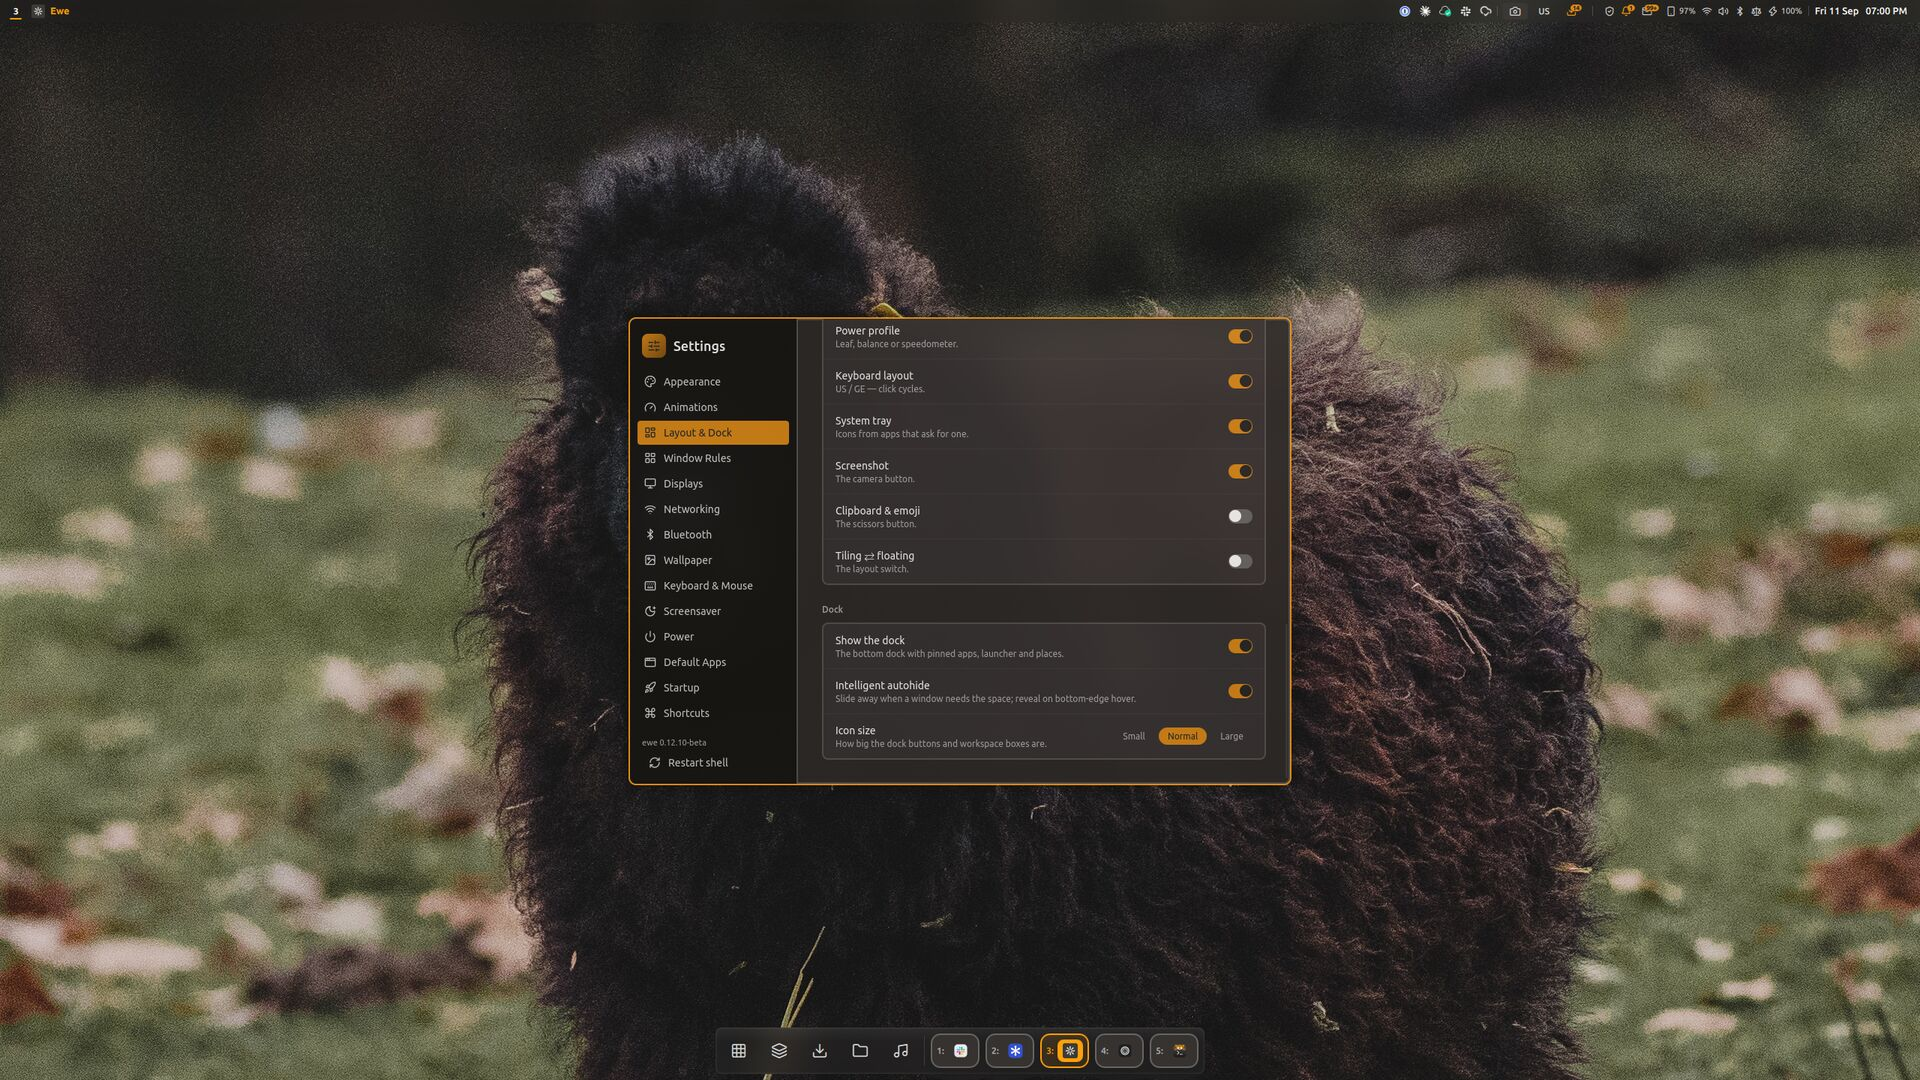
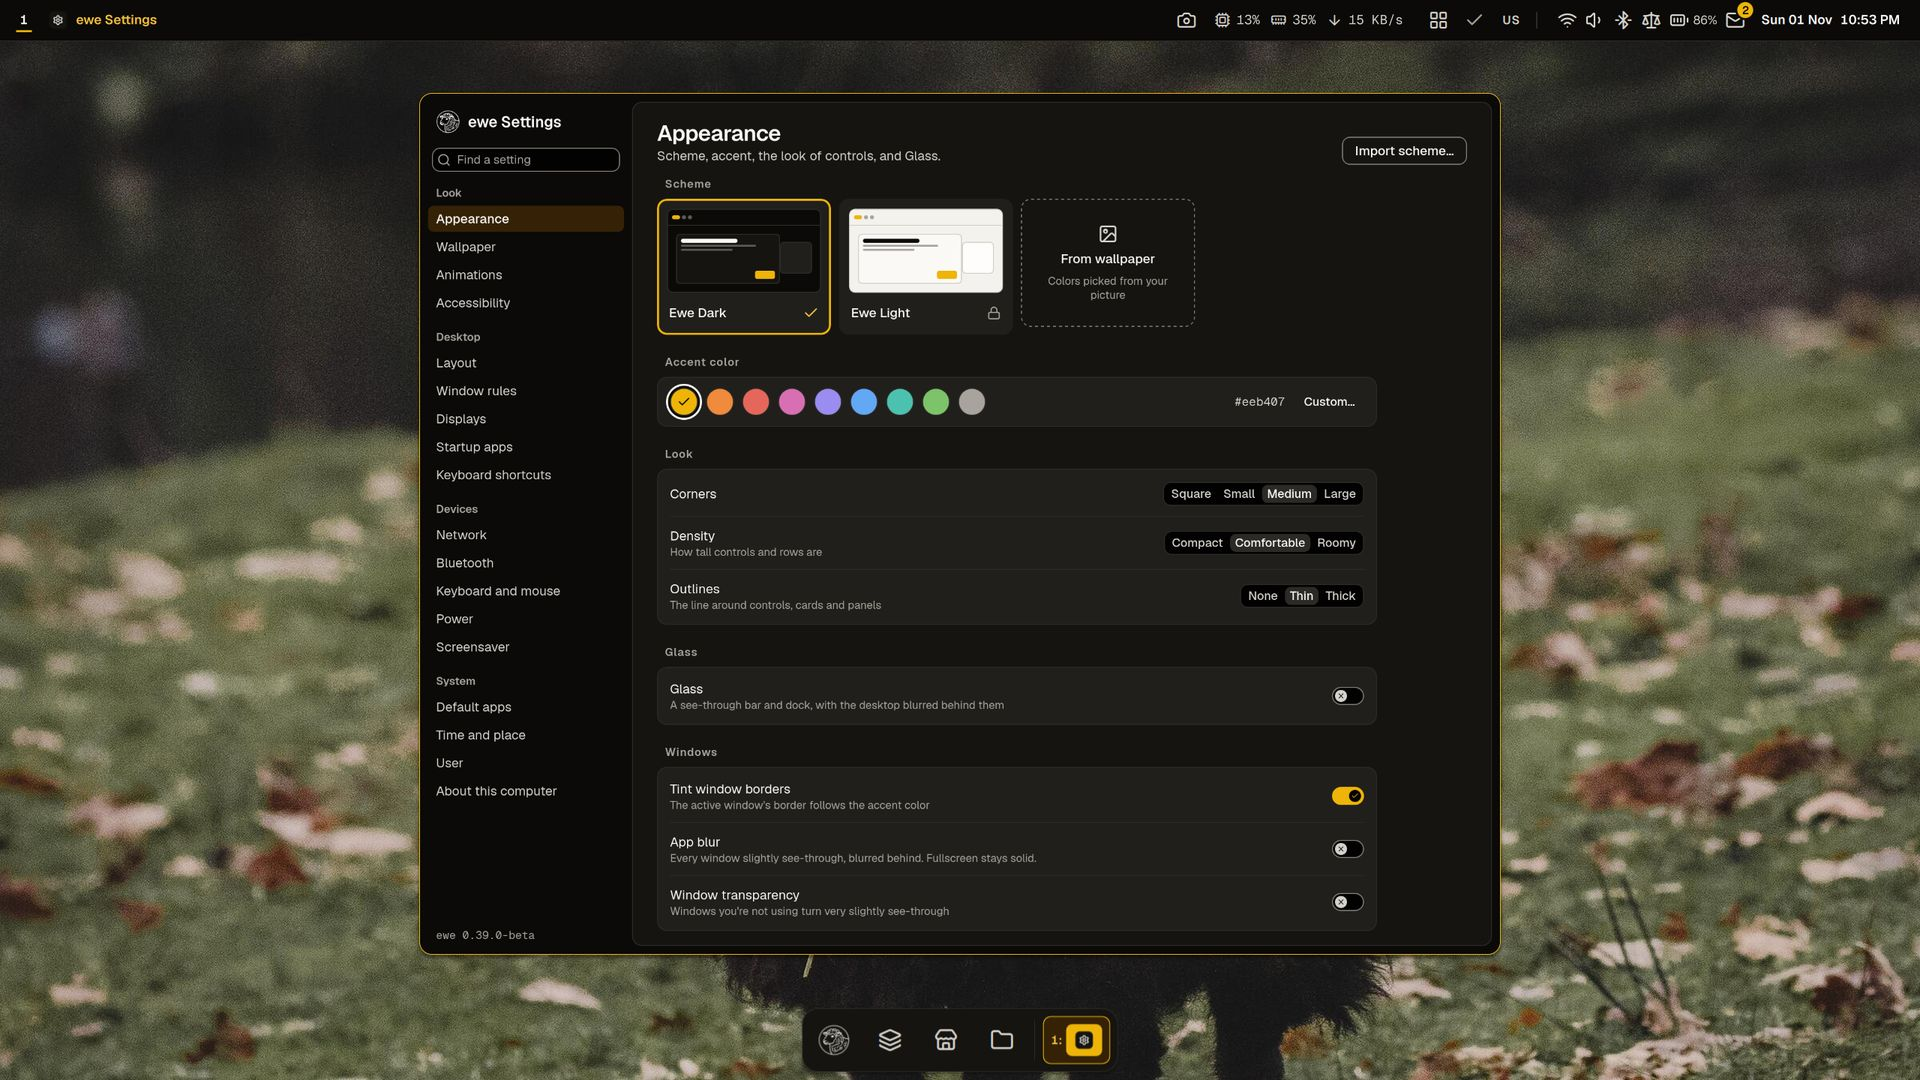
fix(home): fresh ewe 0.39 screenshots for the hero and the Shot default
Both pictures predated design system v3: the old Settings and dock
(settings.*) and the old Quick settings with its icon rail (desktop.*).
Retaken in a nested Hyprland running ewe 0.39.0-beta with sample data
only (sample user "Sam Shepherd", Wi-Fi "Meadow", "Sheep Buds"):

- settings.jpg/.webp: the meadow wallpaper, the bar with the System
  monitor readout, the Dock plugin, and ewe Settings 0.22 centred on
  Appearance in Ewe Dark and the default gold accent.
- desktop.png/.webp: the default wallpaper with Quick settings open on
  home (name and date, tiles, shortcuts, two notifications, battery and
  power mode), the Dock and the System monitor readout.

Same sizes and encodings as before: 1920x1080 progressive JPEG q80 +
2560x1440 lossy WebP; 1920x1200 256-colour PNG + 2560x1600 lossy WebP.
The hero's alt text and caption now describe the new picture.

Claude-Session: https://claude.ai/code/session_01MGcLHcZ7RHq6edSffuLFg8

diff --git a/src/routes/+page.svelte b/src/routes/+page.svelte
@@ -81,12 +81,12 @@
 				fallback="jpg"
 				w={2560}
 				h={1440}
-				alt="The ewe desktop over a photo of a sheep in a meadow: the bar across the top, the Dock plugin along the bottom, and ewe Settings open on Layout and dock with toggles for the power profile, keyboard layout, system tray, screenshot button and dock autohide, all in an orange accent."
+				alt="The ewe desktop over a photo of a meadow: the bar across the top, the Dock plugin along the bottom, and ewe Settings in the middle. Its sidebar has a search field and four groups: Look, Desktop, Devices and System. The Appearance page is open, with Ewe Dark chosen as the scheme, gold chosen as the accent, and settings for corners, density, outlines, Glass and windows."
 			/>
 		</div>
 		<p class="figcap center">
-			A real session with the Dock plugin, and ewe Settings open on Layout and dock. The toggles, the
-			selected pane and the active dock item all follow one accent.
+			A real session with the Dock plugin, and ewe Settings open on Appearance. Everything is in Ewe
+			Dark and the gold accent ewe starts with.
 		</p>
 	</div>
 </section>
